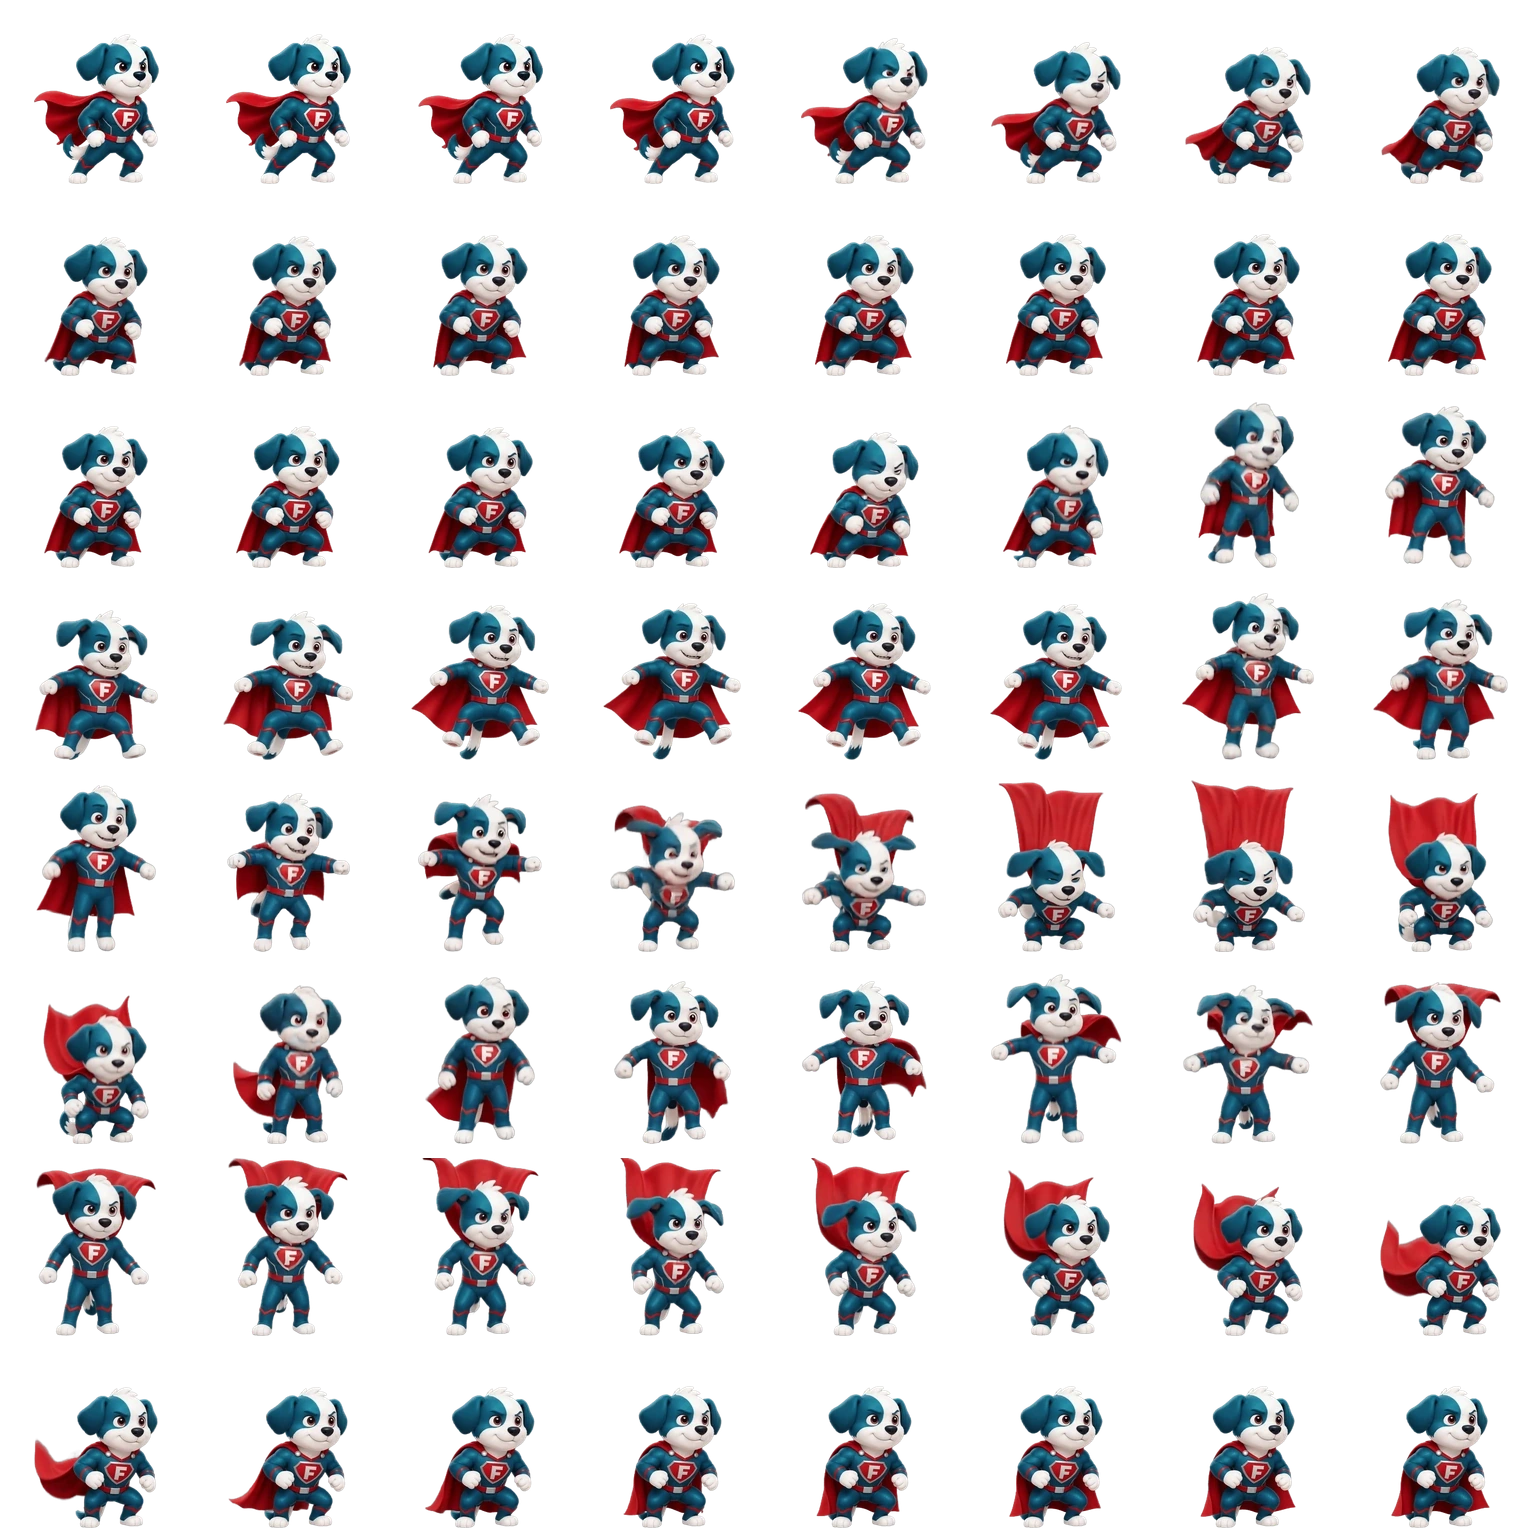
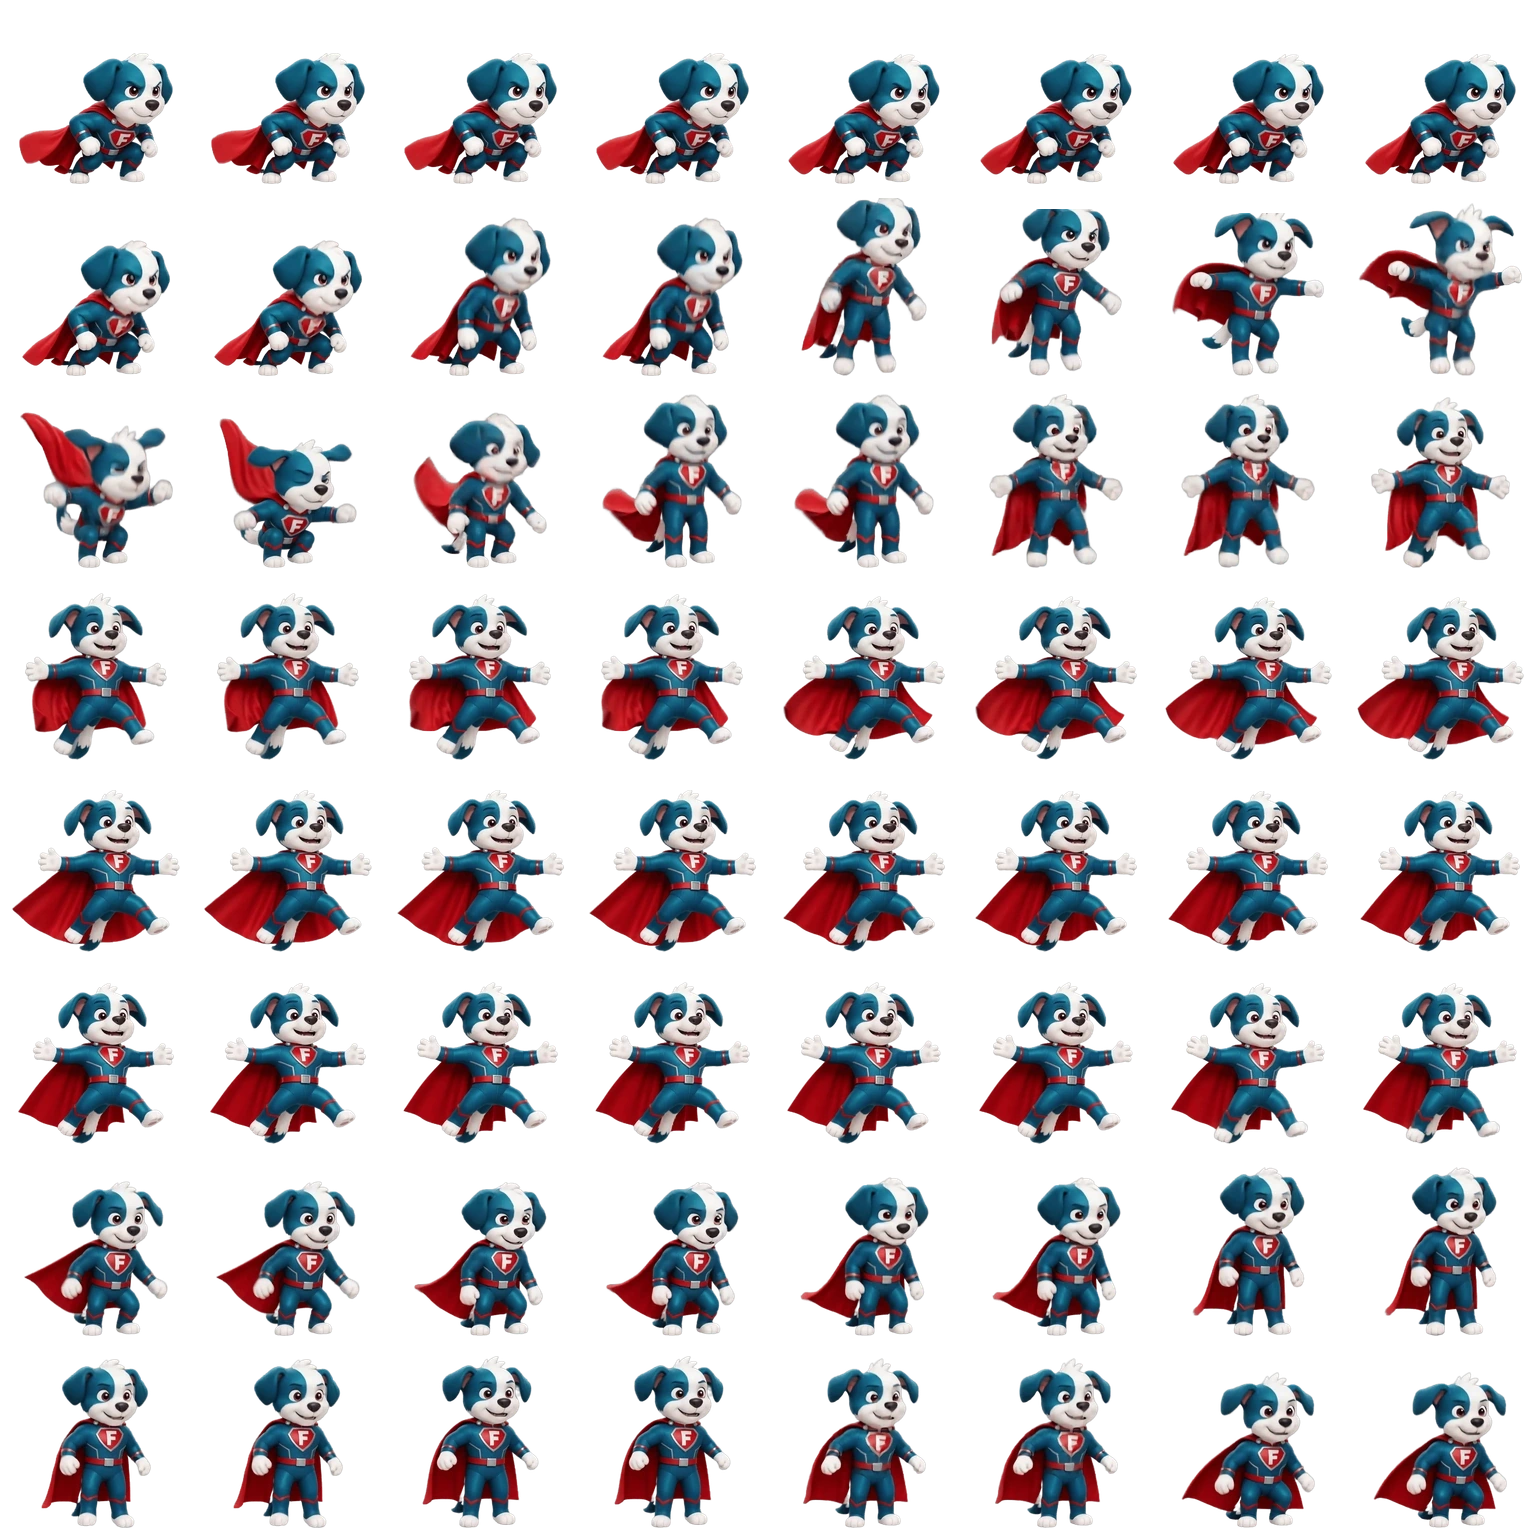
fix(fredrun): restore second Superfred jump

diff --git a/src/lib/fredrun-ui.test.ts b/src/lib/fredrun-ui.test.ts
@@ -484,7 +484,7 @@ describe("Fredrun UI surface", () => {
     expect(totalBytes).toBeLessThanOrEqual(3 * 1024 * 1024);
     expect(viewSource).toContain('type FredRunCharacterId = "fred" | "frida" | "superfred"');
     expect(viewSource).toContain('walk: { source: "/fredrun/superfred/walk.webp", columns: 8, frameCount: 64, fps: 16 }');
-    expect(viewSource).toContain('jump: { source: "/fredrun/superfred/jump.webp?v=original-restored-1", columns: 8, frameCount: 64, fps: 16 }');
+    expect(viewSource).toContain('jump: { source: "/fredrun/superfred/jump.webp?v=second-variant-restored-1", columns: 8, frameCount: 64, fps: 16 }');
     expect(viewSource).toContain('victory: { source: "/fredrun/superfred/victory.webp", columns: 8, frameCount: 64, fps: 16 }');
     expect(viewSource).toContain('superfred: { name: "Superfred", description: "Mit Cape und Extrapower" }');
     expect(stylesSource).toContain("grid-template-columns: repeat(3, minmax(0, 1fr));");

diff --git a/src/components/fredrun-view.tsx b/src/components/fredrun-view.tsx
@@ -97,7 +97,7 @@ const characterSpriteLayouts: Record<FredRunCharacterId, Record<SpriteKey, Chara
   },
   superfred: {
     walk: { source: "/fredrun/superfred/walk.webp", columns: 8, frameCount: 64, fps: 16 },
-    jump: { source: "/fredrun/superfred/jump.webp?v=original-restored-1", columns: 8, frameCount: 64, fps: 16 },
+    jump: { source: "/fredrun/superfred/jump.webp?v=second-variant-restored-1", columns: 8, frameCount: 64, fps: 16 },
     victory: { source: "/fredrun/superfred/victory.webp", columns: 8, frameCount: 64, fps: 16 },
   },
 };
